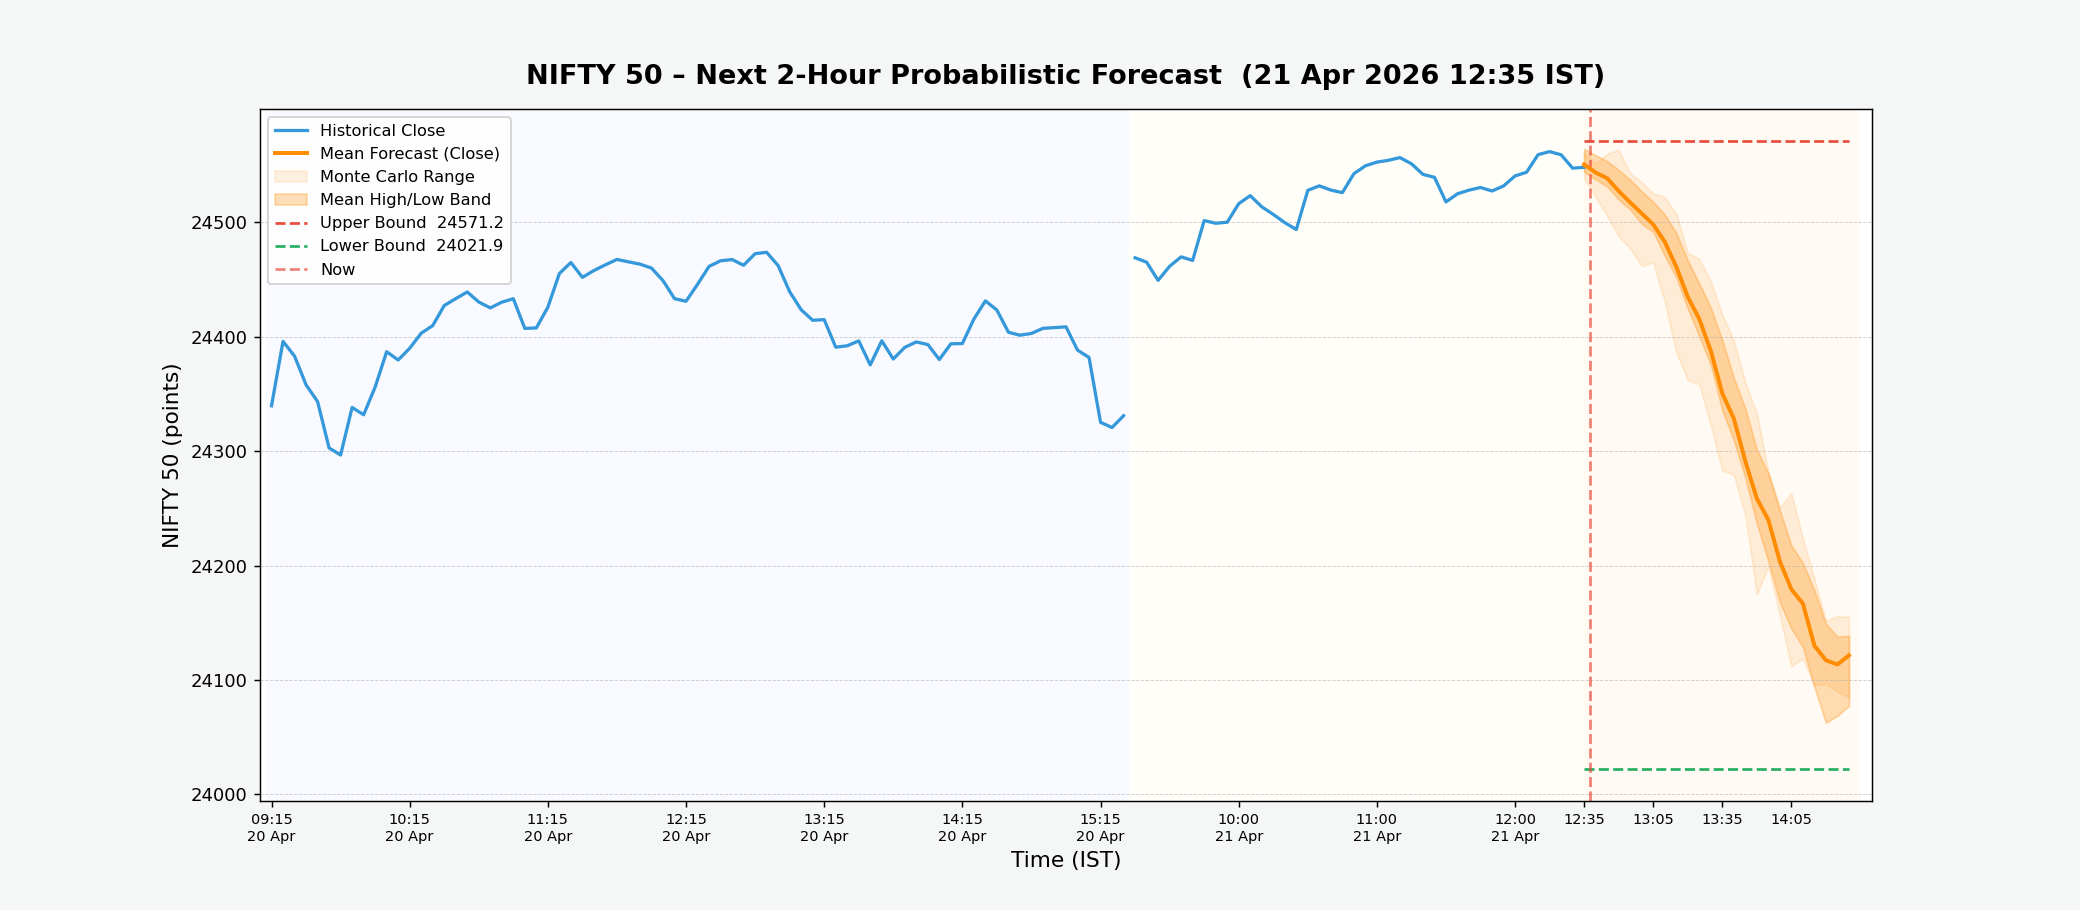
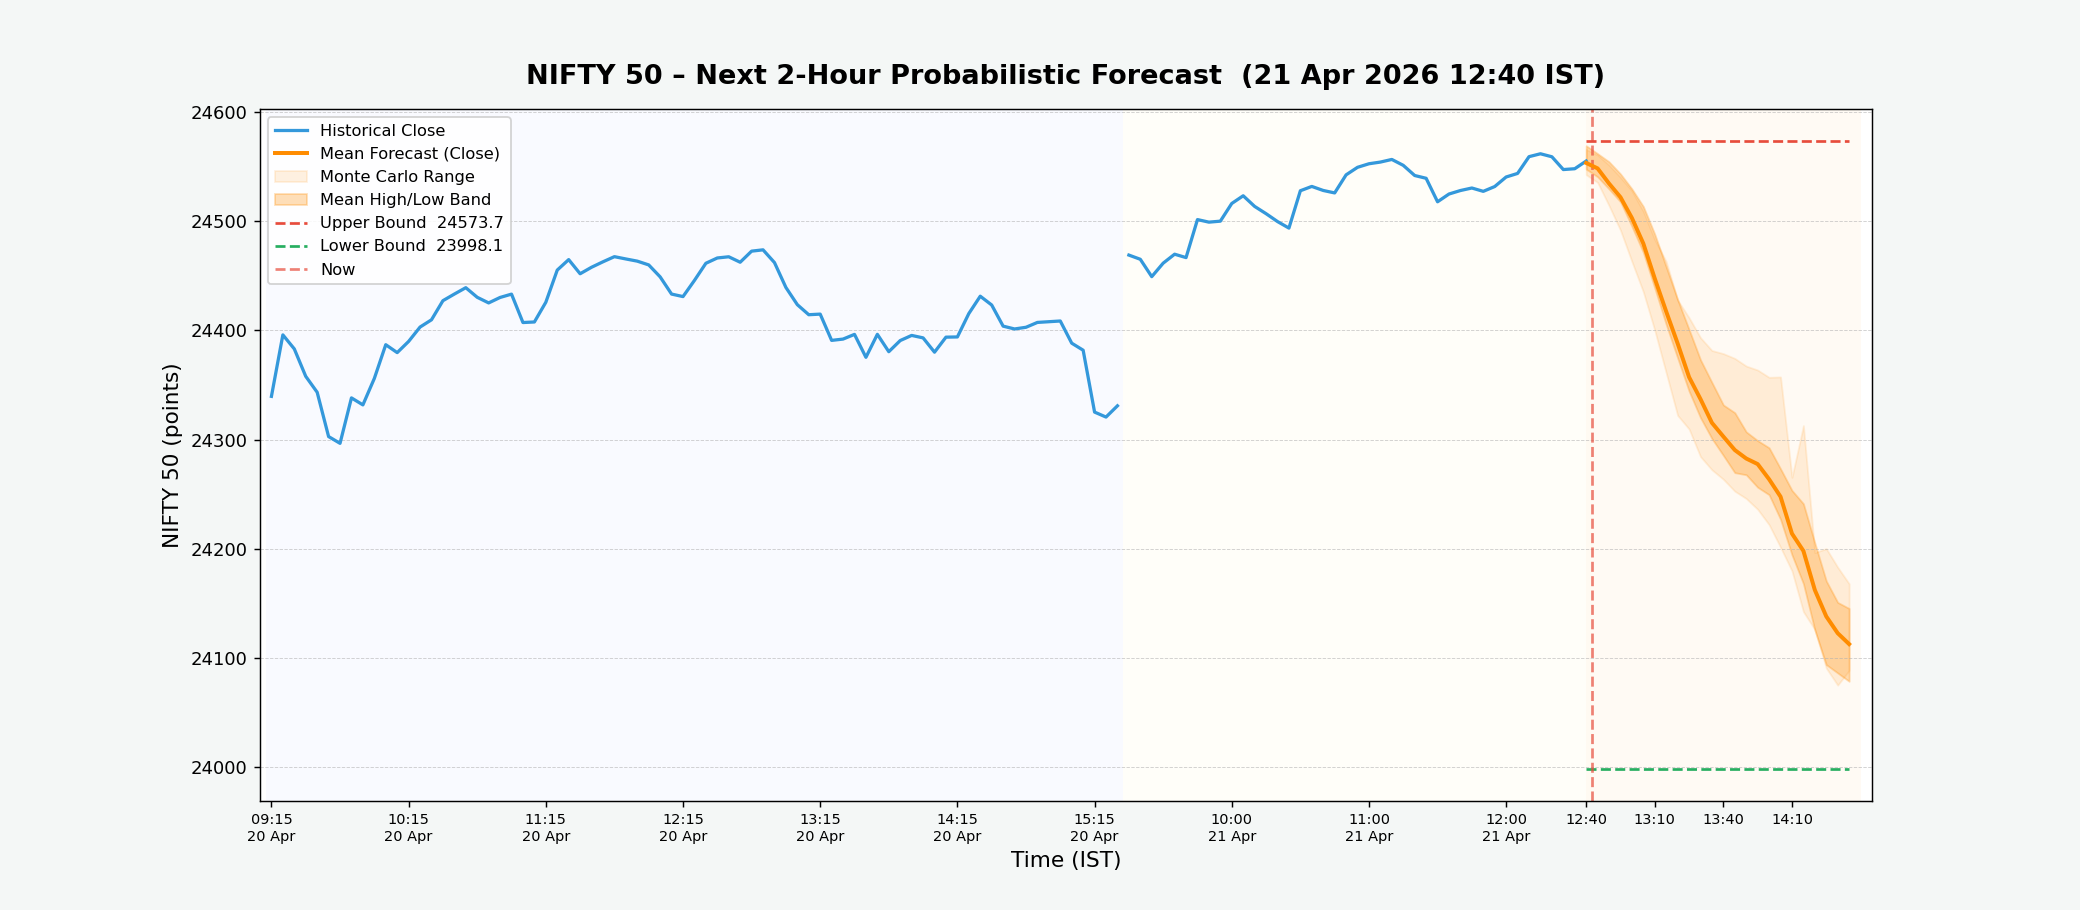
NIFTY forecast update – 2026-04-21 12:40 IST

diff --git a/index.html b/index.html
@@ -24,29 +24,29 @@
 
         <!-- Timestamp bar -->
         <div class="timestamp-bar">
-            <span>Last updated (IST):&nbsp;<strong id="update-time">2026-04-21 12:35:04</strong></span>
+            <span>Last updated (IST):&nbsp;<strong id="update-time">2026-04-21 12:40:04</strong></span>
         </div>
 
         <!-- Metric cards -->
         <div class="metrics-container">
             <div class="metric-card bullish">
                 <div class="metric-label">Bullish Bar Ratio</div>
-                <div class="metric-value" id="upside-prob">17.9%</div>
+                <div class="metric-value" id="upside-prob">11.7%</div>
                 <div class="metric-sub">Next 2h · close &gt; open %</div>
             </div>
             <div class="metric-card upper">
                 <div class="metric-label">Upper Bound</div>
-                <div class="metric-value" id="upper-bound">24571.2</div>
+                <div class="metric-value" id="upper-bound">24573.7</div>
                 <div class="metric-sub">Max predicted high</div>
             </div>
             <div class="metric-card lower">
                 <div class="metric-label">Lower Bound</div>
-                <div class="metric-value" id="lower-bound">24021.9</div>
+                <div class="metric-value" id="lower-bound">23998.1</div>
                 <div class="metric-sub">Min predicted low</div>
             </div>
             <div class="metric-card range">
                 <div class="metric-label">Predicted Range</div>
-                <div class="metric-value" id="pred-range">549.3 pts</div>
+                <div class="metric-value" id="pred-range">575.6 pts</div>
                 <div class="metric-sub">Upper − Lower spread</div>
             </div>
         </div>
